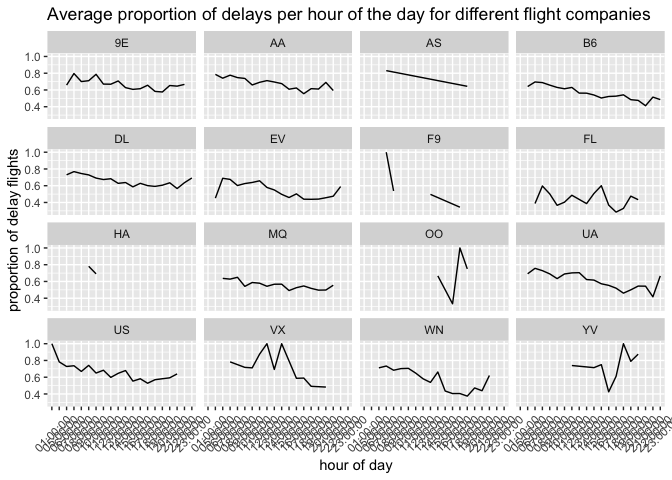
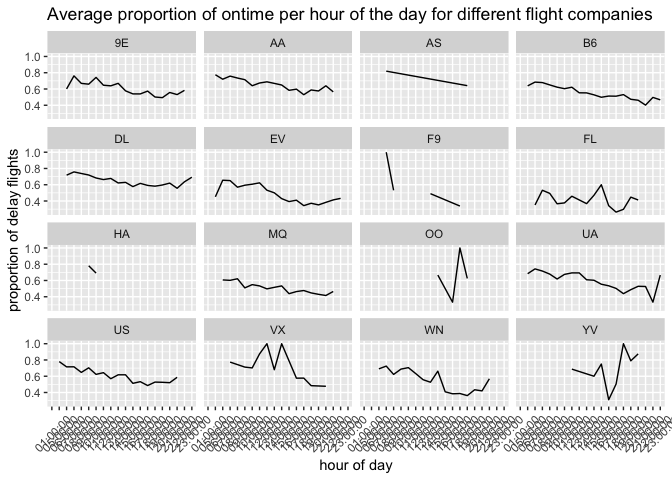
latest version Wednesday

diff --git a/assignment2-433.md b/assignment2-433.md
@@ -3,16 +3,19 @@ assignment2-433
 Chenshuo Pan
 2022-10-07
 
+\[<https://github.com/cspan6/STAT-433-assignment>\]
+
 **This file analyzes the delays at New York airports at different times
 of the day, considering that the number of flights in each period is
-different, so here I use the ratio as a measure. The delay data is
-analyzed in combination with factors such as seasons, different
-airports, airlines, etc., and some experiments are carried out based on
-my own experience. In general, it is recommended to take flights in the
-mornings in winter and evenings in summer, and there is not much
-difference between the three airports in New York. Recommend United
-Airline in airline selection, Southwest Airlines in the evening, not
-Virgin America at noon.**
+different, so here I use the ratio（Punctuality rate） as a measure. The
+on-time data is analyzed in combination with factors such as seasons,
+different airports, airlines, etc., and some experiments are carried out
+based on my own experience. In general, it is recommended to take
+flights in the mornings ,and do not take flights in winter and evenings
+in summer, and there is not much difference between the three airports
+in New York(do not choose EWR when you need to flight after 15:00).
+Recommend Delta in airline selection, Mesa in the evening, Virgin
+America at noon.**
 
 ``` r
 library(dplyr)
@@ -89,7 +92,7 @@ flights <-nycflights13::flights
 ``` r
 flight<-flights%>%mutate(timeofday=
   flights$time_hour%>%substr(.,11,30),
-  on_time = if_else(condition = arr_delay>0,
+  on_time = if_else(condition = arr_delay<=0,
                            true = T,
                            false = F,
                            missing = F)  )
@@ -97,7 +100,7 @@ flight<-flights%>%mutate(timeofday=
 
 ``` r
 flight1<-flight%>%
-  filter(on_time==FALSE)%>%
+  filter(on_time==TRUE)%>%
   group_by(timeofday)%>%
   summarize(n = n())%>%left_join(flight%>%
   group_by(timeofday)%>%
@@ -142,17 +145,20 @@ flight%>%
 
 **Here, I counted all the flight information in New York within a year,
 and grouped them by hour. It can be seen that there is no number of
-flights between 2-4am, and here I calculated the proportion of delayed
-flights (including cancellations). In fact, from Looking at this
-picture, we can only get a weak trend, a straight line with an
-insignificant slope, and the proportion of flight delays at about 9
-o’clock in the evening reaches the minimum.**
+flights between 2-4am, and here I calculated the proportion of ontime
+flights (excluding delay and cancellations). In fact, from Looking at
+this picture, we can only get a weak trend, a straight line with an
+insignificant slope, and the proportion of flight ontime at about 7
+o’clock at morning reaches the minimum.**
 
 ``` r
 ggplot(data = flight1)+
   geom_bar(mapping = aes(x = timeofday, y = n),stat="identity")+
   geom_line(aes(x = timeofday,y = proportion*10000),group = 20,color="red")+
-  theme(axis.text.x = element_text(angle = 45, hjust = 0.5, vjust = 0.5))
+  theme(axis.text.x = element_text(angle = 45, hjust = 0.5, vjust = 0.5))+
+  xlab("hour of day")+
+  ylab("total numebr of ontime flights")+
+  ggtitle("Total number of flights ontime versus flight distance(Barplot) ")
 ```
 
 ![](assignment2-433_files/figure-gfm/unnamed-chunk-6-1.png)<!-- -->
@@ -177,17 +183,21 @@ flight_season2 <- flight%>%mutate(season = case_when(
   month%in%c(3,4,5)~"Spring",
   month%in%c(6,7,8)~"Summer",
   month%in%c(9,10,11)~"Autumn",
-  month%in%c(12,1,2)~"Winter"))%>%filter(on_time ==FALSE)%>%group_by(timeofday,season)%>%summarize(n = n())
+  month%in%c(12,1,2)~"Winter"))%>%filter(on_time ==TRUE)%>%group_by(timeofday,season)%>%summarize(n = n())
 ```
 
     ## `summarise()` has grouped output by 'timeofday'. You can override using the
     ## `.groups` argument.
 
 ``` r
-flight_season <-left_join(flight_season2,flight_season1)%>%mutate(proportion = n/total)
+flight_season <-left_join(flight_season1,flight_season2)%>%mutate(proportion = n/total)
 ```
 
     ## Joining, by = c("timeofday", "season")
+
+``` r
+flight_season[is.na(flight_season)]=0
+```
 
 ``` r
 flight_season%>%ggplot(aes(x = timeofday,
@@ -197,27 +207,28 @@ flight_season%>%ggplot(aes(x = timeofday,
 theme(axis.text.x = element_text(angle = 45, hjust = 0.5, vjust = 0.5))+
   xlab("hour of day")+
   ylab("proportion of delay flights")+theme(legend.text = element_text(size = 8, colour = "red"))+
-  ggtitle("Average proportion of delays time of the day for the four seasons")
+  ggtitle("Average proportion of ontime flight vesus time of the day for the four seasons")
 ```
 
 ![](assignment2-433_files/figure-gfm/unnamed-chunk-8-1.png)<!-- -->
 **Here, according to the four seasons, I have drawn the proportional
-curve of each time point. It can be clearly seen that the blue color is
-autumn, and the flight delay ratio is always higher than that of the
-other four seasons. At the same time, I noticed that before 13:00, the
-flight delay rate is the lowest in winter, and after that, the delay
-rate in summer is the lowest, so it is recommended to take flights in
-the morning in winter, and in the afternoon and evening in summer.
-Overall, all four seasons have the highest percentage of delays in the
-morning, and it is not recommended to take flights in the
-morning**
+curve of each time point of day. It can be clearly seen that the red
+color is autumn, and the flight ontime ratio is always higher than that
+of the other four seasons. At the same time, I noticed that before
+14:00, the ontime flight rate is the lowest in winter, and after that,
+the rate in summer is the lowest, so it is recommended do not to take
+flights in the morning in winter, and in the afternoon and evening in
+summer. Overall, Autumn is the best season,and all four seasons have the
+highest percentage of ontime in the morning, and it is not recommended
+to take flights in the evening if you want avoid
+delays**
 
 ``` r
 flight1<-flight1%>%mutate(test = ts(timeofday))
 ```
 
 ``` r
-flight_origin1<-flight%>%filter(on_time==FALSE)%>%group_by(timeofday,origin)%>%summarize(n=n())
+flight_origin1<-flight%>%filter(on_time==TRUE)%>%group_by(timeofday,origin)%>%summarize(n=n())
 ```
 
     ## `summarise()` has grouped output by 'timeofday'. You can override using the
@@ -243,17 +254,20 @@ ggplot(flight_origin)+
     theme(axis.text.x = element_text(angle = 45, hjust = 0.5, vjust = 0.5))+
     xlab("hour of day")+
   ylab("proportion of delay flights")+
-  ggtitle("Average proportion of delays per hour of the day at 3 New York airports")
+  ggtitle("Average proportion of ontime per hour of the day at 3 New York airports")
 ```
+
+    ## Warning: Removed 1 row(s) containing missing values (geom_path).
 
 ![](assignment2-433_files/figure-gfm/unnamed-chunk-11-1.png)<!-- -->
 **Overall, the difference between the three airports is not obvious.
-Compared with the morning, the delay situation is slightly better in the
-afternoon and evening, and there is no particularly obvious
-pattern.**
+Compared with the morning, the ontime situation is slightly worse in the
+afternoon and evening, and there is no particularly obvious time serious
+pattern.However,do not choose EWR when you need to flight in the
+evening**
 
 ``` r
-flight_carrier1<-flight%>%filter(on_time==FALSE)%>%group_by(timeofday,carrier)%>%summarize(n=n())
+flight_carrier1<-flight%>%filter(on_time==TRUE)%>%group_by(timeofday,carrier)%>%summarize(n=n())
 ```
 
     ## `summarise()` has grouped output by 'timeofday'. You can override using the
@@ -279,19 +293,20 @@ ggplot(flight_carrier)+
     theme(axis.text.x = element_text(angle = 45, hjust = 0.5, vjust = 0.5))+
       xlab("hour of day")+
   ylab("proportion of delay flights")+
-  ggtitle("Average proportion of delays per hour of the day for different flight companies")
+  ggtitle("Average proportion of ontime per hour of the day for different flight companies")
 ```
 
 ![](assignment2-433_files/figure-gfm/unnamed-chunk-13-1.png)<!-- -->
 
 **Here, it is obvious that some airlines have incomplete data. Among
-relatively complete airlines, UA and B6 will have lower delay ratios
-than the rest of the large airlines (such as DL and AA, both of which
-have average delay ratios throughout the day but are above 0.6). The
-proportion of delays in EV and WN apparently decreased with morning and
-evening during the day. It is worth noting that VX has a high delay
-ratio close to 1 at 11:00 and 13:00. Meanwhile, most airlines perform
-better at night than during the day, with the exception of YV。**
+relatively complete airlines, AS ,DL and AA will have higher ratio
+ratios than the rest of the large airlines (such as UA and EV, both of
+which have average ontime ratios throughout the day but sometime nearly
+0.4). The proportion of ontime in EV and WN apparently decreased with
+morning and evening during the day. It is worth noting that VX has a
+high ontime ratio close to 1 at 11:00 and 13:00. Meanwhile, most
+airlines perform better at morning than during the day, with the
+exception of YV。**
 
 ``` r
  flights%>%filter(carrier=="HA")
@@ -324,7 +339,7 @@ dis<-flight%>%
   group_by(distance)%>%
   summarize(total=n())%>%
   left_join(flight%>%
-              filter(on_time == FALSE)%>%
+            filter(on_time == TRUE)%>%
               group_by(distance)%>%
               summarize(n=n()))%>%
   mutate(proportion = n/total)
@@ -338,9 +353,16 @@ ggplot(dis)+
   geom_point(aes(x =distance,y =proportion))+
     xlab("flight distance")+
   ylab("proportion of delay flights")+
-  ggtitle("Average proportion of delays versus flight distance ")
+  ggtitle("Average proportion of ontime versus flight distance ")
 ```
 
 ![](assignment2-433_files/figure-gfm/unnamed-chunk-16-1.png)<!-- -->
 
-*From the graph, my guess seems to be an illusion*
+``` r
+mean(dis$proportion)
+```
+
+    ## [1] 0.5604062
+
+**From the graph, my guess seems to be True ,since when disatance is
+over 2000,the most ontime proportion is higher than the mean value.**
